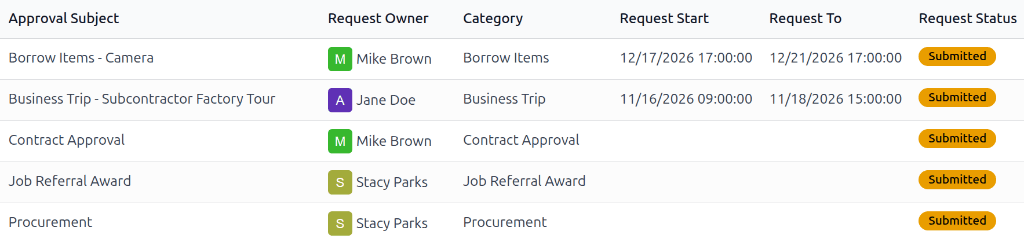
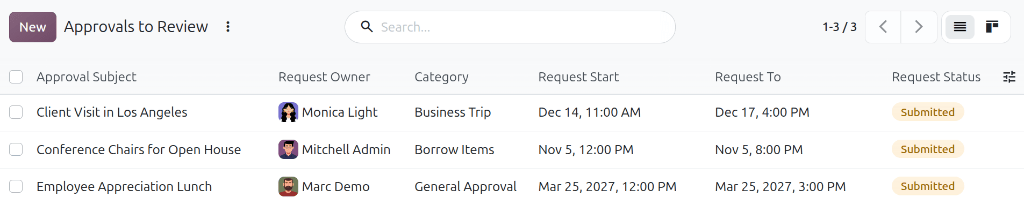
[IMP] approvals: update the documentation to 20.0
Document the approval categories and their configuration, request states,
withdraw, cancel and force approval; the approval order no longer exists.
Screenshots regenerated.

How this was verified:
- The content was written with an AI assistant (Claude), then checked
  against Odoo 20.0 (odoo 15847649b67e, enterprise 0d2a8594a038) on a
  local database with demo data and ~270 modules (all HR apps, Fleet,
  Maintenance, Sign, Email and SMS Marketing, Events, Planning,
  Timesheets, Purchase, Documents, Belgian payroll).
- Every added or changed UI instruction was followed as written on that
  database, as in the documentation team's UI verification prompt;
  mismatches were fixed in the text.
- Icons use the data-icon value and the tooltip of the element, read on
  the screen (filled variants as _f).
- Examples and screenshots use the demo data only; screenshots taken at
  a 992 px viewport.
- Not verified in the UI, checked in the 20.0 source code instead:
  approvals of a second user, scheduled actions.

closes odoo/documentation#20883

diff --git a/content/applications/hr/approvals.rst b/content/applications/hr/approvals.rst
@@ -14,14 +14,13 @@ all requests.
 Approval types
 ==============
 
-When requesting an approval, the category, or *type*, must be specified. There are nine
-preconfigured approval categories available to make requests for:
+When requesting an approval, the category, or *type*, must be specified. The following approval
+categories are preconfigured:
 
-- :guilabel:`Business trip`: For requesting work-related travel.
+- :guilabel:`Business Trip`: For requesting work-related travel.
 - :guilabel:`Borrow Items`: For requesting physical items the company owns or sells, for a specified
   period of time.
-- :guilabel:`General Approval`: For requests that do not fit in any of the eight other default
-  types.
+- :guilabel:`General Approval`: For requests that do not fit in any of the other categories.
 - :guilabel:`Contract Approval`: For requesting any type of external contract, excluding
   :doc:`employee contracts <payroll/contracts>`.
 - :guilabel:`Payment Application`: For requesting *prior approval* for company-related expenses.
@@ -37,16 +36,29 @@ preconfigured approval categories available to make requests for:
   completed through the :doc:`Referrals <referrals>` app.
 - :guilabel:`Procurement`: Used for requesting work-related items such as office supplies, tools,
   etc.
-- :guilabel:`Create RFQ's`: Used for requesting a quote for items from a vendor.
+- :guilabel:`Create RFQ's`: Used for requesting a quote for items from a vendor. This only appears
+  if the **Purchase** app is installed.
+
+If necessary, approval categories can be :ref:`modified or created <approvals/categories>`.
 
 .. _approvals/requests:
 
 Approval requests
 =================
 
-To create a new approval request, open the **Approvals** app, click the :guilabel:`New Request`
-button on the approval type card that best fits the request, and a blank approval form loads. Fill
-out the various sections and tabs, then click :guilabel:`Submit` to submit the request for approval.
+The **Approvals** app dashboard displays a card for each approval category. To create a new
+approval request, open the **Approvals** app, click the :guilabel:`New Request` button on the
+approval category card that best fits the request, and a blank approval form loads. Fill out the
+following sections and tabs on the form, then :ref:`submit the request <approvals/submit>`.
+
+.. tip::
+   If the category is not immediately known, click the :guilabel:`New Request` button in the
+   upper-left corner of the dashboard to open a generic request form. Once the
+   :guilabel:`Category` is selected, the corresponding fields on the form appear.
+
+For users with the *Officer: Approve all requests* access right, the :guilabel:`To Review` button
+on each card displays the number of submitted requests of that category waiting for the current
+user's approval. Click it to open these requests.
 
 General information section
 ---------------------------
@@ -55,23 +67,24 @@ The top half of the form contains all of the general information regarding the r
 following fields in the top half of the form:
 
 .. note::
-   All the fields listed below appear on the form for the :guilabel:`General Approval` category. If
-   a different :guilabel:`Category` is selected, some fields are hidden.
+   All the fields listed below, except :guilabel:`Quantity`, appear on the form for the
+   :guilabel:`General Approval` category. If a different :guilabel:`Category` is selected, some
+   fields are hidden, according to the :ref:`category configuration <approvals/categories>`.
 
-- :guilabel:`Approval Subject`: This field is automatically populated with the selected approval
-  type. Make any desired modifications to the default text to provide any additional context for the
-  request.
+- :guilabel:`Approval Subject`: Enter a short title for the request, such as `Customer Visit in
+  Chicago`. If the category uses an automated sequence, this field is filled automatically with a
+  reference number when the request is saved.
 - :guilabel:`Request Owner`: The person responsible for the approval request. The signed-in user
   populates this field by default.
-- :guilabel:`Category`: The selected category appears in this field but can be changed using the
-  drop-down menu.
+- :guilabel:`Category`: The selected category appears in this field, but can be changed using the
+  drop-down menu, as long as the request is not submitted.
 - :guilabel:`Date`: Using the calendar selector, set the date and time the request is for. This
   field **only** appears if :guilabel:`Payment Application` or :guilabel:`General Approval` is
   selected for the :guilabel:`Category`.
-- :guilabel:`Period`: Using the calendar selector, set the start and end dates for the request in
-  the :guilabel:`From` and :guilabel:`to` fields. This field **only** appears if :guilabel:`Business
-  Trip`, :guilabel:`Borrow Items`, :guilabel:`Car Rental Application`, or :guilabel:`General
-  Approval` is selected for the :guilabel:`Category`.
+- :guilabel:`Period`: Using the calendar selector, set the start and end dates and times for the
+  request. This field **only** appears if :guilabel:`Business Trip`, :guilabel:`Borrow Items`,
+  :guilabel:`Car Rental Application`, or :guilabel:`General Approval` is selected for the
+  :guilabel:`Category`.
 - :guilabel:`Location`: Enter the specific location the approval request is for. This field **only**
   appears if :guilabel:`Business Trip` or :guilabel:`General Approval` is selected for the
   :guilabel:`Category`.
@@ -79,8 +92,11 @@ following fields in the top half of the form:
   available options are from the **Contacts** app. This field **only** appears if
   :guilabel:`Contract Approval`, :guilabel:`Payment Application`, :guilabel:`Job Referral Award`, or
   :guilabel:`General Approval` is selected for the :guilabel:`Category`.
+- :guilabel:`Company`: The currently logged-in company populates this field by default, and
+  **cannot** be changed. This field **only** appears in multi-company databases.
 - :guilabel:`Quantity`: Enter the number of items being requested in this field. This field **only**
-  appears if :guilabel:`Procurement` is selected for the :guilabel:`Category`.
+  appears if :guilabel:`Procurement` is selected for the :guilabel:`Category`. For categories with
+  products, the quantity is set on each line of the *Products* tab instead.
 - :guilabel:`Amount`: Enter the amount being requested. This field **only** appears if
   :guilabel:`Contract Approval`, :guilabel:`Payment Application`, :guilabel:`Procurement`, or
   :guilabel:`General Approval` is selected for the :guilabel:`Category`.
@@ -95,19 +111,20 @@ following fields in the top half of the form:
    form. Once the :guilabel:`Category` is selected, the corresponding fields on the form appear.
 
 .. image:: approvals/approval-form.png
-   :alt: The top-half of an approval form fillled out for a business trip.
+   :alt: The top half of an approval form filled out for a business trip.
 
-Product tab
------------
+Products tab
+------------
 
-If any configured products in the database are being requested, they are listed in the *Products*
-tab. This tab **only** appears if :guilabel:`Borrow Items`, :guilabel:`General Approval`, or
-:guilabel:`Create RFQ's` is selected in the :guilabel:`Category` field.
+If any configured products in the database are being requested, they must be listed in the
+*Products* tab. This tab **only** appears if :guilabel:`Borrow Items`, :guilabel:`General
+Approval`, or :guilabel:`Create RFQ's` is selected in the :guilabel:`Category` field.
 
 To add a product, click :guilabel:`Add a line` and a blank line appears. Using the drop-down menu,
-select the product being requested. Once selected, the product's configured :guilabel:`Description`
-automatically populates that field. The :guilabel:`Quantity` is :guilabel:`1.00` by default, but can
-be updated if necessary.
+select the product being requested. Once selected, the product's name and :guilabel:`Internal
+Reference` code populate both the :guilabel:`Products` and :guilabel:`Description` fields. Update
+the :guilabel:`Description` field, if desired. The :guilabel:`Quantity` is :guilabel:`1.00` by
+default, but can be updated if necessary.
 
 Description tab
 ---------------
@@ -120,18 +137,22 @@ information in this tab.
 Approver(s) tab
 ---------------
 
-The *Approvers(s)* tab is where the people responsible for approving the request are configured. To
-add an approver, click :guilabel:`Add a line`, and a blank line appears. Using the drop-down menu,
-select the desired user. Repeat for all other approvers. There is no maximum number of users for
-this tab.
+The *Approver(s)* tab lists the people responsible for approving the request. The approvers
+configured on the :ref:`approval category <approvals/categories>` populate this tab by default.
+
+To add an approver, click :guilabel:`Add a line`, and a blank line appears. Using the drop-down
+menu, select the desired user. Repeat for all other approvers. There is no maximum number of users
+for this tab. Only internal users can be selected as approvers.
 
 To indicate a user **must** approve the request, click the checkbox in the :guilabel:`Required`
 column.
 
-As users are added, their :guilabel:`Status` remains :guilabel:`New`.
+As users are added, their :guilabel:`Status` remains :guilabel:`New`. Once the request is
+submitted, the :guilabel:`Status` changes to :guilabel:`To Approve`, and each approver receives an
+activity to approve the request. Approvers can approve the request in any order.
 
 .. image:: approvals/approvers.png
-   :alt: The approvers tab with thre approvers listed, and one required.
+   :alt: The Approver(s) tab with two approvers listed, one of them required.
 
 Attach documents
 ----------------
@@ -141,42 +162,119 @@ the :guilabel:`Attach Document` button at the top of the page, and a file explor
 Navigate to the desired file, select it, then click :guilabel:`Open` to attach it. Multiple
 documents can be selected and added at the same time.
 
-Once attached, a :icon:`fa-book` :guilabel:`Documents` smart button appears at the top of the page,
+Once attached, a :icon:`book` :guilabel:`Documents` smart button appears at the top of the page,
 indicating how many documents are attached. Additionally, the documents are listed in the chatter.
-If the screen is wide enough, the documents appear on the side of the screen.
+
+.. important::
+   Some categories, such as :guilabel:`General Approval`, require at least one document. When
+   submitting a request with missing documentation, an *Invalid Operation* pop-up window loads.
+
+.. _approvals/submit:
+
+Submit request
+--------------
+
+Once the form is complete and all tabs are configured, click :guilabel:`Submit` to submit the
+request. The status changes to :guilabel:`Submitted`, and the request appears on the *Approvals to
+Review* dashboard.
+
+To modify the request after it is submitted, click :guilabel:`Cancel` to cancel the submitted
+request, then click :guilabel:`Back To Draft` to modify the record. Once all changes are made,
+click :guilabel:`Submit` to submit it again.
+
+.. tip::
+   Approved requests cannot be deleted, but they can be archived.
 
 .. _approvals/amanage:
 
 Manage approvals
 ================
 
-After requests are submitted, they must be approved by the required approvers listed in the
+After requests are submitted, they must be approved by the approvers listed in the
 :ref:`Approver(s) tab <approvals/approvers>`. To view approvals awaiting action, navigate to
 :menuselection:`Approvals app --> Manager --> Approvals to Review`, and the *Approvals to Review*
-dashboard loads. All approvals awaiting action by the user appear alphabetically in a default list
-view.
-
-.. note::
-   Only *submitted* requests that the user is assigned as an approver for appear in the *Approvals
-   to Review* dashboard. All other requests remain hidden.
+dashboard loads. All approvals awaiting action by the user appear in a default list view.
 
 .. image:: approvals/to-approve.png
    :alt: All approval requests waiting for approval, the user is assigned to.
 
-Requests must be individually approved from the approvals form. To approve a request, click the
-individual request on the *Approvals to Review* dashboard and the individual request form loads.
+.. note::
+   Only *submitted* requests that the user is assigned as an approver for appear in the *Approvals
+   to Review* dashboard. To view all requests, navigate to :menuselection:`Approvals app -->
+   Manager --> All Approvals`. Requests created by the current user are listed in
+   :menuselection:`Approvals app --> My Approvals --> My Requests`.
 
-.. image:: approvals/camera.png
-   :alt: A request to borrow a camera, with the Approve and Refuse buttons showing.
+To approve or refuse a request, click the individual request on the *Approvals to Review* dashboard
+and the individual request form loads. Requests can also be approved or refused directly from the
+:guilabel:`Approval` activity displayed in the chatter.
+
+.. image:: approvals/request-to-approve.png
+   :alt: A request to borrow conference chairs, with the Approve and Refuse buttons showing.
 
 To approve the request, click the :guilabel:`Approve` button on the individual approval request
-form, and the status changes to :guilabel:`Approved`. As users approve the request, their
-:guilabel:`Status` changes to :guilabel:`Approved` and the text appears green.
+form. In the *Approver(s)* tab, the approver's :guilabel:`Status` changes to :guilabel:`Approved`,
+and the text appears green. The request's status changes to :guilabel:`Approved` once all required
+approvers, and at least the :guilabel:`Minimum Approval` number of approvers set on the category,
+have approved it.
 
-To deny the request, click the :guilabel:`Refuse` button on the individual approval request form,
-and the status changes to :guilabel:`Refused`. When a user refuses a request, its :guilabel:`Status`
-changes to :guilabel:`Refused` and the text appears red.
+To deny the request, click the :guilabel:`Refuse` button on the individual approval request form.
+The approver's :guilabel:`Status` changes to :guilabel:`Refused`, and the text appears red. As soon
+as one approver refuses the request, the request's status changes to :guilabel:`Refused`.
 
-At any point, approval requests that are either :guilabel:`Approved` or :guilabel:`Refused` can
-return to the :guilabel:`Submitted` stage by clicking the :guilabel:`Withdraw` button. The
-:guilabel:`Status` for all approvers reverts to :guilabel:`To Approve`, and the text appears orange.
+An approver who already approved or refused a request can click the :guilabel:`Withdraw` button to
+cancel their decision. Their :guilabel:`Status` changes back to :guilabel:`To Approve`.
+
+.. tip::
+   Users with the *Officer: Approve all requests* access right for the **Approvals** app can approve
+   a request without waiting for the approvers. On the *Approvals to Review* dashboard, click the
+   checkbox next to the desired request, click the :icon:`settings_f` :guilabel:`Actions` button,
+   then :guilabel:`Force Approval`. Alternatively, on the individual request record, click the
+   :icon:`more_vert` :guilabel:`(Actions)` icon, then :guilabel:`Force Approval`.
+
+.. _approvals/categories:
+
+Configure approval categories
+=============================
+
+To modify an approval category, or create a new one, navigate to :menuselection:`Approvals app -->
+Configuration --> Approval Categories`. The *Approval Categories* dashboard loads, with all
+currently configured categories in a list view. Click on a category to open it, or click
+:guilabel:`New` to create a new one.
+
+Fill out the following fields in the top of the form:
+
+.. note::
+   Some fields only appear if the related app is installed.
+
+- :guilabel:`Approval Category`: The name of the category, displayed on the dashboard card.
+- :guilabel:`Description`: A short description of the category.
+- :guilabel:`Create RFQ's`: Click this checkbox to have the request create a quote request.
+- :guilabel:`Automated Sequence`: Click this checkbox to automatically generate the
+  :guilabel:`Approval Subject` for the requests. When selected, a :guilabel:`Prefix Code` field
+  appears. Enter a code to use when submitting requests.
+- :guilabel:`Company`: The company the category belongs to. This field only appears in
+  multi-company databases.
+
+In the *Configuration* section of the *Options* tab, select whether each field of the
+request form is :guilabel:`Required`, :guilabel:`Optional`, or not displayed (:guilabel:`None`):
+:guilabel:`Document`, :guilabel:`Contact`, :guilabel:`Date`, :guilabel:`Period`,
+:guilabel:`Product`, :guilabel:`Quantity`, :guilabel:`Amount`, :guilabel:`Reference`, and
+:guilabel:`Location`. The :guilabel:`Document` option can only be :guilabel:`Required` or
+:guilabel:`Optional`.
+
+In the *Approvers* section, configure who approves the requests for the category:
+
+- :guilabel:`Employee's Manager`: Click this checkbox to add the manager of the request owner as a
+  required approver for every request.
+- User list: Click :guilabel:`Add a line` to add a default approver, and click the
+  :guilabel:`Required` checkbox if their approval is mandatory.
+- :guilabel:`Minimum Approval`: Enter the number of approvals needed to approve the request. A
+  warning appears if this number is greater than the number of default approvers.
+
+.. image:: approvals/approval-category.png
+   :alt: The Business Trip approval category form, with its options and approvers.
+
+.. tip::
+   To add custom fields to the requests of a category, open one of its requests, click the
+   :icon:`more_vert` :guilabel:`(Actions)` icon, then click :icon:`settings_applications`
+   :guilabel:`Edit Properties`. The new properties appear on all the requests of this category.
